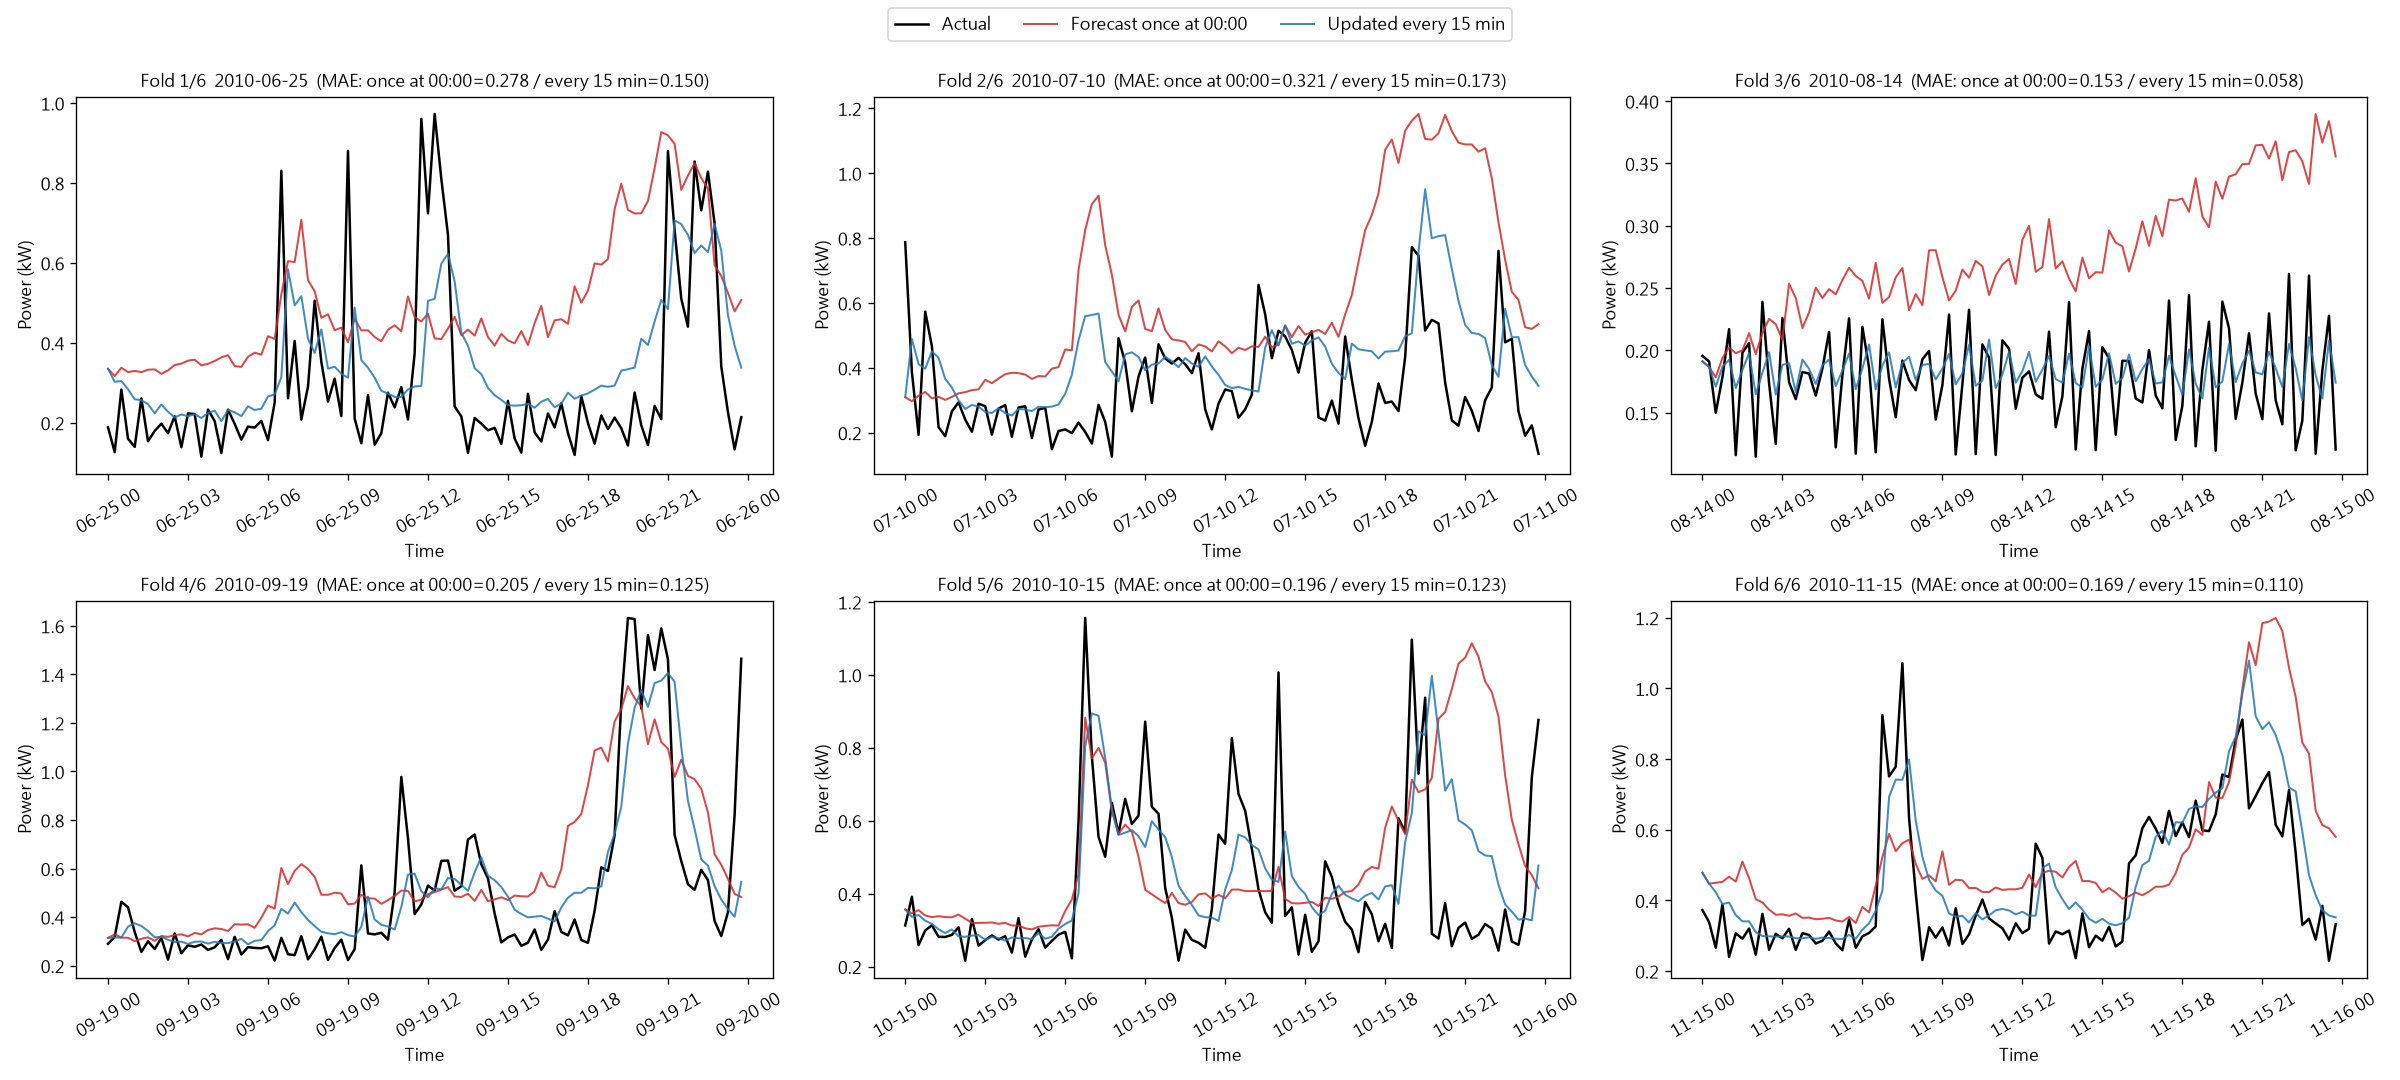
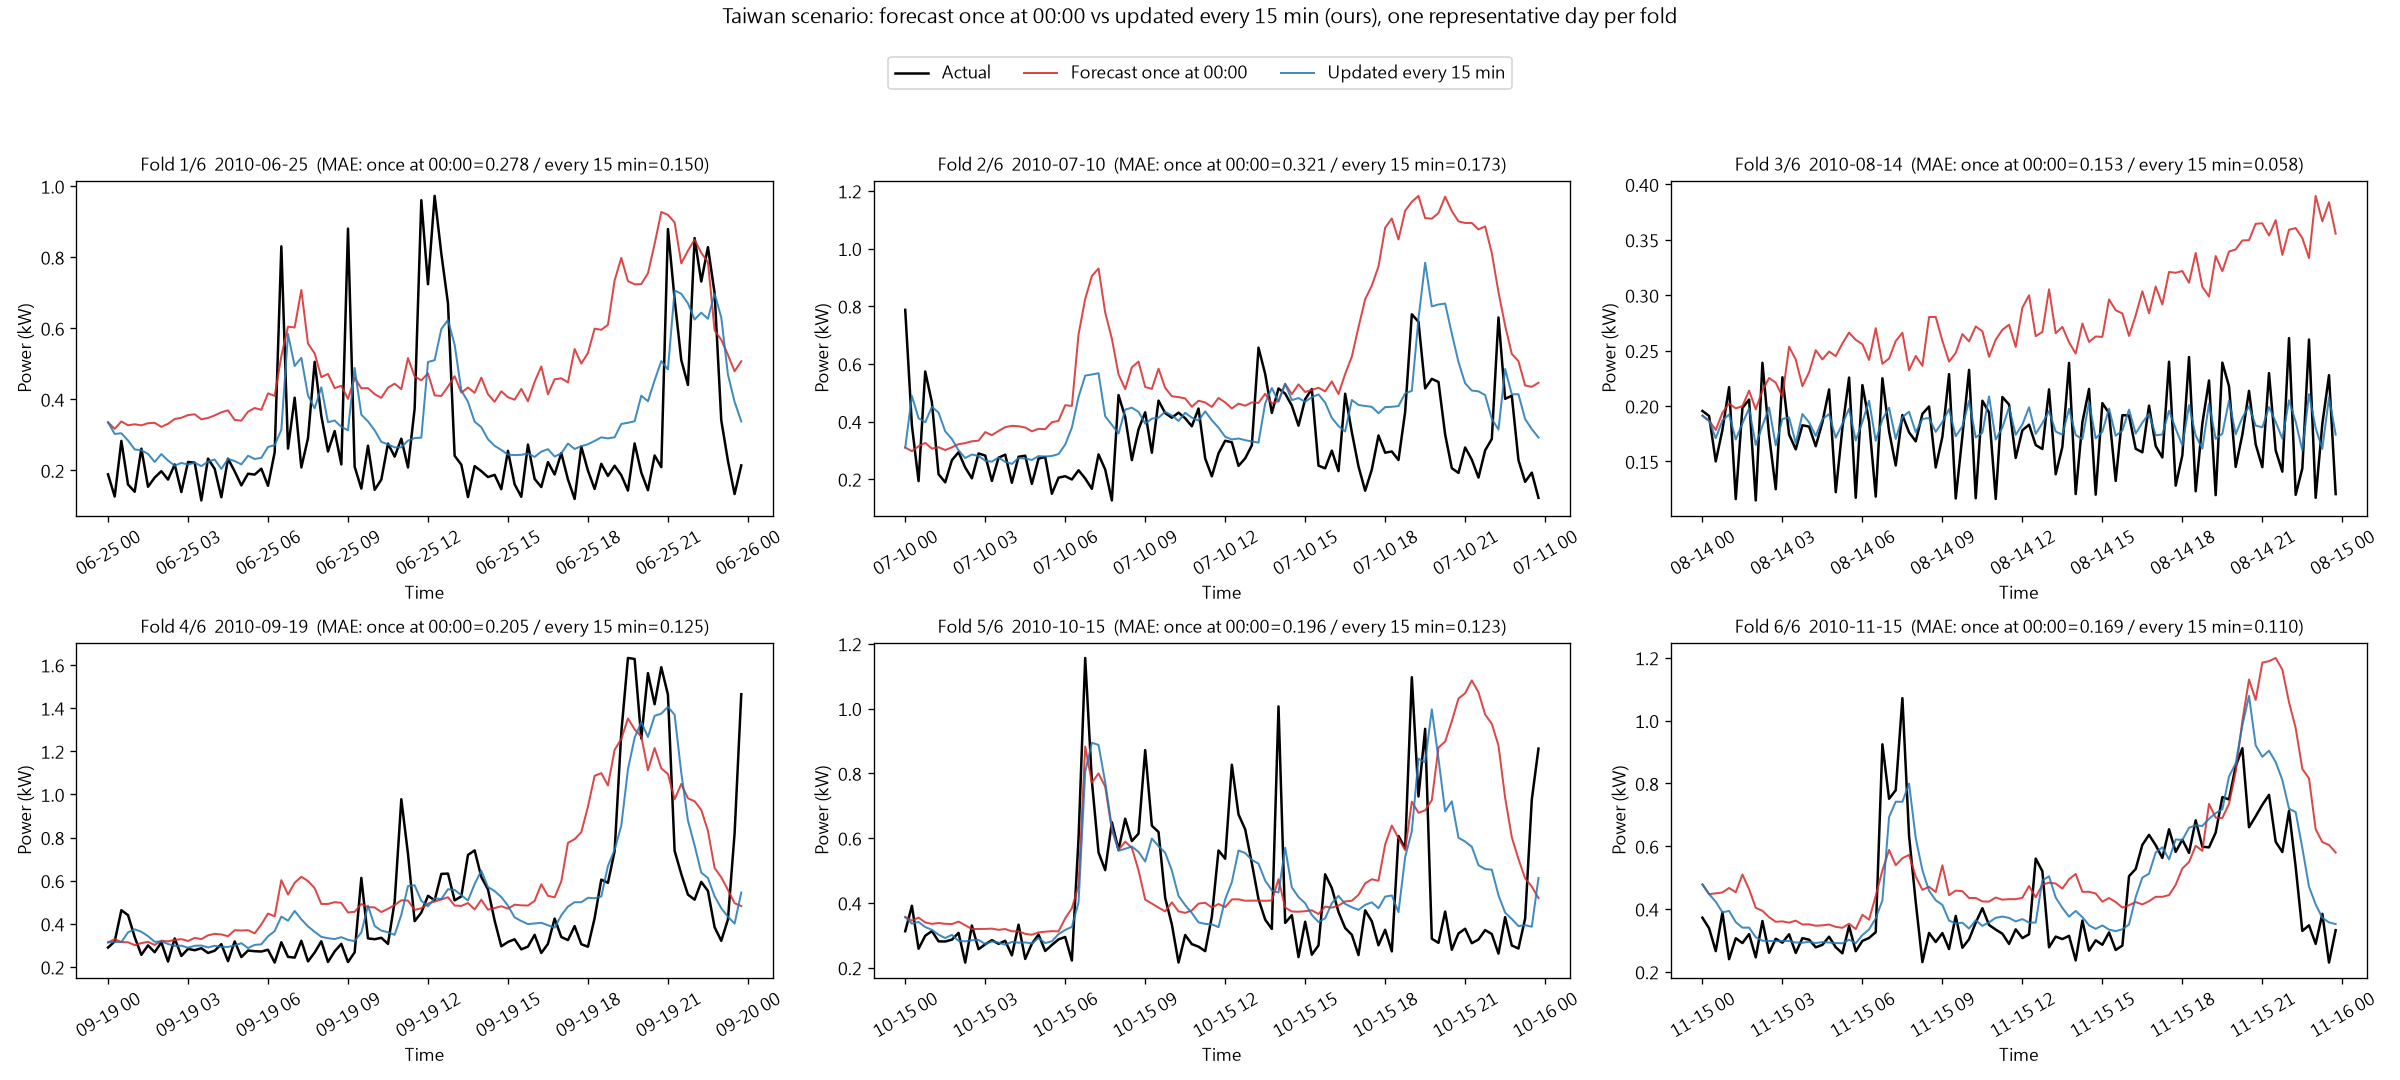
Figures: add titles, fix legend/title overlap; replace once-at-00:00 curves with 15-min-updated ours-vs-baseline

diff --git a/index.html b/index.html
@@ -57,11 +57,11 @@
 <h2>結果圖</h2>
 <p class="muted" style="margin:-6px 0 12px;color:#666;font-size:13px">點任一張圖可放大檢視；放大後再點一次或按 Esc 關閉，右上角可開啟原始檔。</p>
 <div class="gallery">
-  <figure class="wide"><img src="results/figures/folds_curve.png" alt="folds_curve"><figcaption>6 折各取一個代表日：實際 vs 每天 00:00 預測一次 vs 每 15 分鐘更新</figcaption></figure>
+  <figure class="wide"><img src="results/figures/folds_curve.png" alt="folds_curve"><figcaption>本方法在 6 個代表日（每折各一天）：實際 vs 每天 00:00 只預測一次 vs 每 15 分鐘更新——看得出更新後能跟上當天的變化</figcaption></figure>
   <figure class="wide"><img src="results/figures/compare.png" alt="compare"><figcaption>本方法 vs 基準的預測誤差 MAE（越低越好，6 折平均）：藍＝基準（一個模型一次預測 96 步），橘＝本方法（每一步各自一個模型＋7 天資訊）；每 15 分鐘更新時改善 22.3%</figcaption></figure>
   <figure class="wide"><img src="results/figures/feature_importance_bar.png" alt="feature_importance_bar"><figcaption>特徵重要度長條圖</figcaption></figure>
   <figure class="wide"><img src="results/figures/feature_importance_detail.png" alt="feature_importance_detail"><figcaption>個別特徵重要度 Top-18</figcaption></figure>
-  <figure class="wide"><img src="results/figures/curves_t0.png" alt="curves_t0"><figcaption>6 折代表日、每天 00:00 一次預測整天：實際 vs 基準 vs 本方法</figcaption></figure>
+  <figure class="wide"><img src="results/figures/curves_rolling_compare.png" alt="curves_rolling_compare"><figcaption>同樣 6 個代表日、改用「每 15 分鐘更新」模式：實際 vs 基準 vs 本方法（每格標出兩者的 MAE 與本方法的改善幅度）</figcaption></figure>
   <figure class="wide"><img src="results/figures/rolling_snapshots.png" alt="rolling_snapshots"><figcaption>日內滾動 — 6 個時點快照</figcaption></figure>
   <figure class="wide"><img src="results/figures/rolling.gif" alt="rolling"><figcaption>日內滾動動畫：每 15 分鐘刷新未來 24 小時</figcaption></figure>
   <figure class="wide"><img src="results/figures/rolling6.gif" alt="rolling6"><figcaption>6 折代表日同步滾動動畫（2×3）</figcaption></figure>

diff --git a/results/README.md b/results/README.md
@@ -16,7 +16,7 @@
 | `feature_importance_bar.png` | Feature importance at 1 / 24 / 96 steps ahead (grouped) |
 | `feature_importance_detail.png` | Top-18 features at 1 / 24 / 96 steps ahead |
 | `compare.png` | 本方法 vs 基準的 MAE（越低越好，6 折平均）：兩種評估方式各一組，橘色標示相對基準的改善幅度 |
-| `curves_t0.png` | 6 折代表日、每天 00:00 一次預測整天：實際 vs 基準 vs 本方法 |
+| `curves_rolling_compare.png` | 同樣 6 個代表日、「每 15 分鐘更新」模式：實際 vs 基準 vs 本方法，每格標 MAE 與改善幅度 |
 | `rolling_snapshots.png` | 日內滾動 6 個時點快照 |
 | `rolling.gif` | 日內滾動動畫（每 15 分刷新未來 24h） |
 | `rolling6.gif` | 6 折代表日同步滾動動畫（2×3） |
